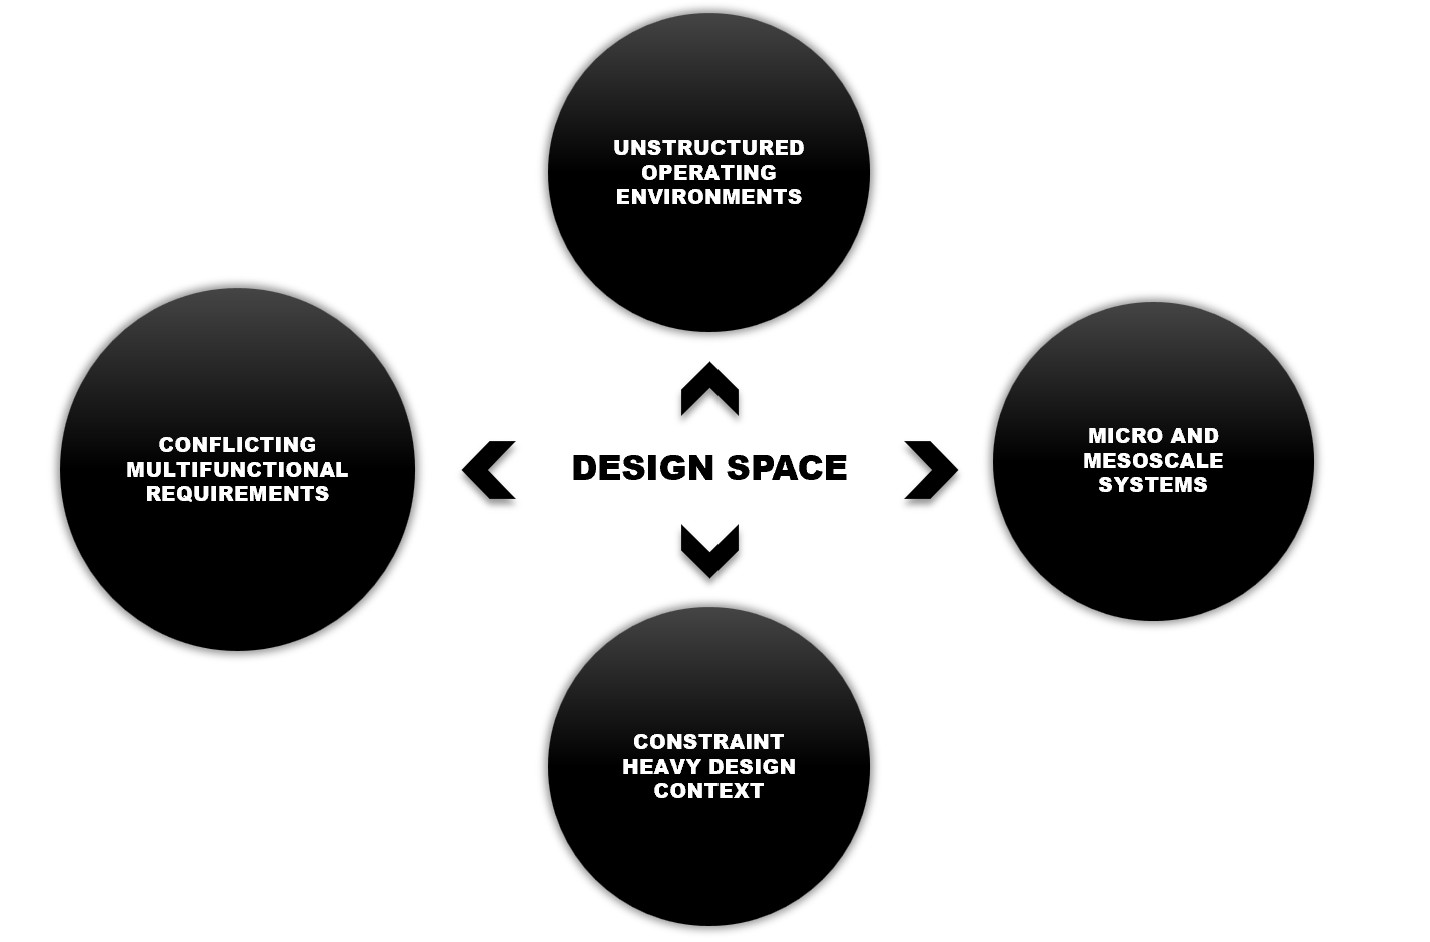
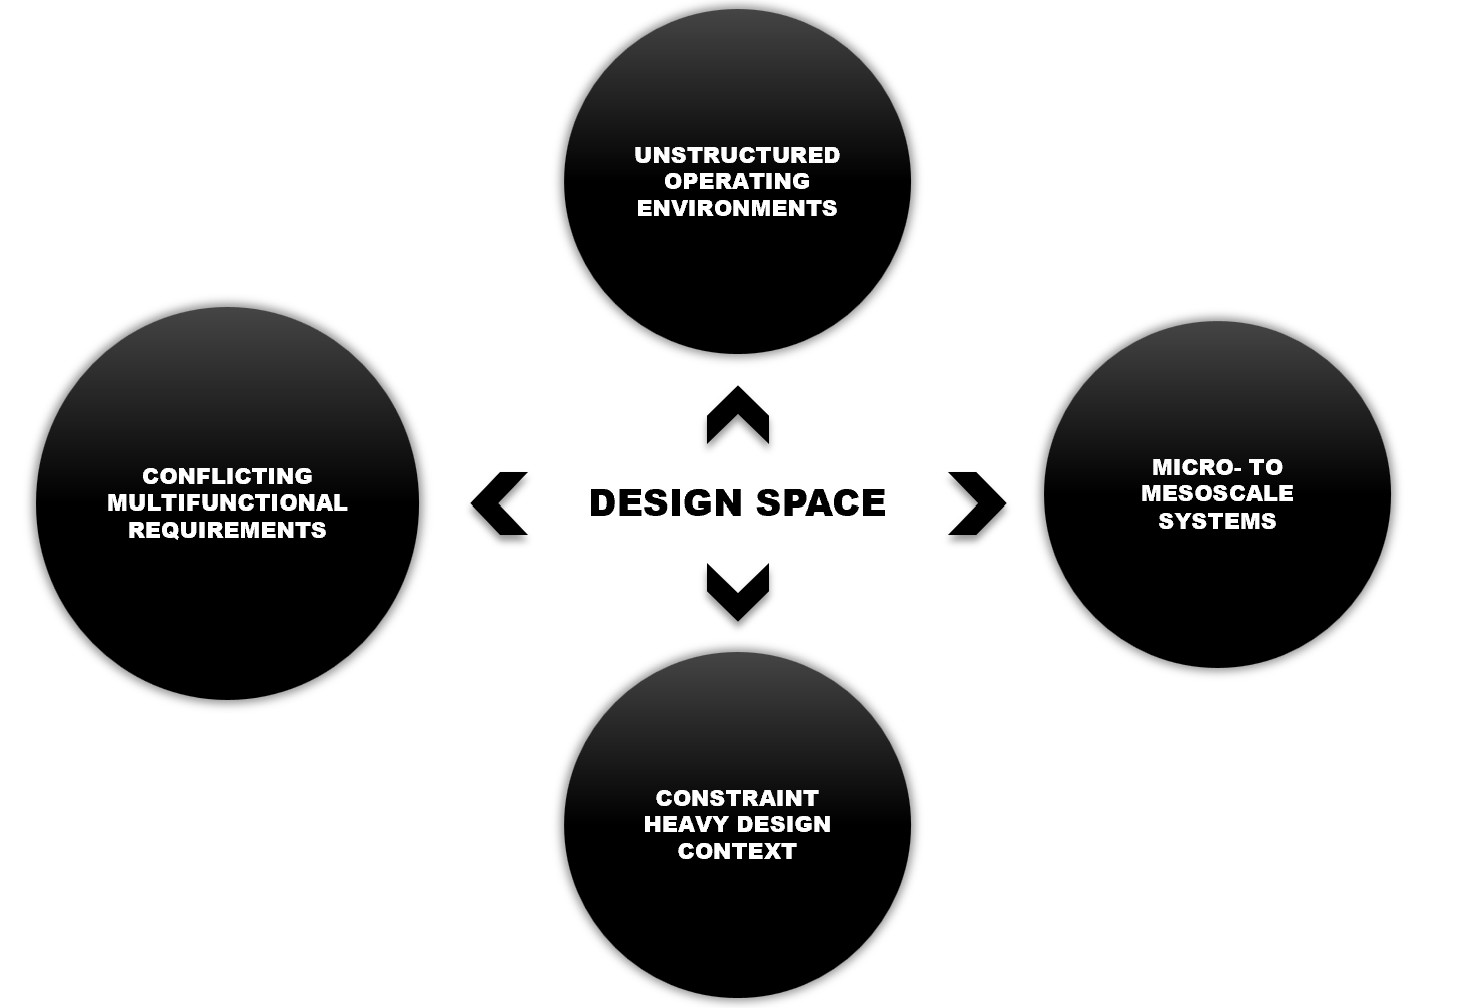
seventy four commit

diff --git a/index.html b/index.html
@@ -53,7 +53,7 @@
 
                 <h3><b>DESIGN SPACE AND APPLICATION SCALE</b></h3>
                 <p>
-                    The <b>MBID v1.0</b> design space is characterised by unstructured operating environments, the need to integrate multiple, often conflicting functions, constraint-heavy design contexts, and <b>micro to mesoscale</b> solution spaces where scale-dependent physical laws govern feature-level function generation.
+                    The <b>MBID v1.0</b> design space is characterised by unstructured operating environments, the need to integrate multiple, often conflicting functions, constraint-heavy design contexts, and <b><u>micro- to mesoscale solution</u></b> spaces where scale-dependent physical laws govern feature-level function generation.
                 </p>
 
                 <p>
@@ -93,7 +93,7 @@
     
         <p>
             The effectiveness of the MBID ideation system is evidenced through cross-sector application and functional validation, including 
-            <b>medical and surgical device</b> (painless meso-scale sutures), 
+            <b>medical and surgical device</b> (painless mesoscale suture pins), 
             <b>passive robotic mobility device</b> (non-pneumatic tyres), 
             <b>aerospace thermal-management device</b> (heat-absorbing, low-pressure-drop architectures), and 
             <b>multifunctional wearable devices</b> (marine-adaptive skins and impact-protection helmets).  
@@ -190,10 +190,10 @@
                 <img src="images/user manual.jpg" class="img-center" width="73%" alt="User manual">
                 
                 <p>
-                    Explore the <b>BIKAS-Morphological Domain Integration Knowledge Base</b> and integrate biological morphological features into your design process.
+                    Explore the <b>BIKAS-Morphological Domain Integration Knowledge Base</b> to identify and integrate biological morphological features into your design process.
                 </p>
                 <p>
-                    <b>Click below</b> for step-by-step instructions on using BIKAS.
+                    <b>Click below</b> for step-by-step instructions on using BIKAS to generate a <b>medical device: painless mesoscale suture pin for wound healing</b>.
                 </p>
                 <p>
                     <ul>
@@ -216,7 +216,7 @@
                     <b>Pavan Tejaswi Velivela, Ph.D.</b><br>
                     Architect of MBID ideation system<br>
                     Additive Design and Manufacturing Lab (ADML)<br>
-                    email at: pavan.velivela@mail.mcgill.ca<br>
+                    email at: pavan.velivela@mail.mcgill.ca; pavan.velivela90@gmail.com<br>
                     Visit my portfolio at: <a href="https://sites.google.com/view/pavantejaswi-velivela/about">portfolio</a><br>
                 </p>
 

diff --git a/pages/user-manual.html b/pages/user-manual.html
@@ -165,7 +165,7 @@
         
         <div id="header">    
                 <p>
-                    <b>Disclaimer:</b> The example walkthrough provides an overview of the method. Morphological feature selection, parameter definition, application of relevant physical principles, conceptual development, embodiment design, and engineering evaluation are determined by the specific problem definition.  
+                    <b>Note:</b> The example walkthrough provides an overview of the method. Morphological feature selection, parameter definition, application of relevant physical principles, conceptual development, embodiment design, and engineering evaluation are determined by the specific problem definition.  
                 </p>
         </div> 
 
